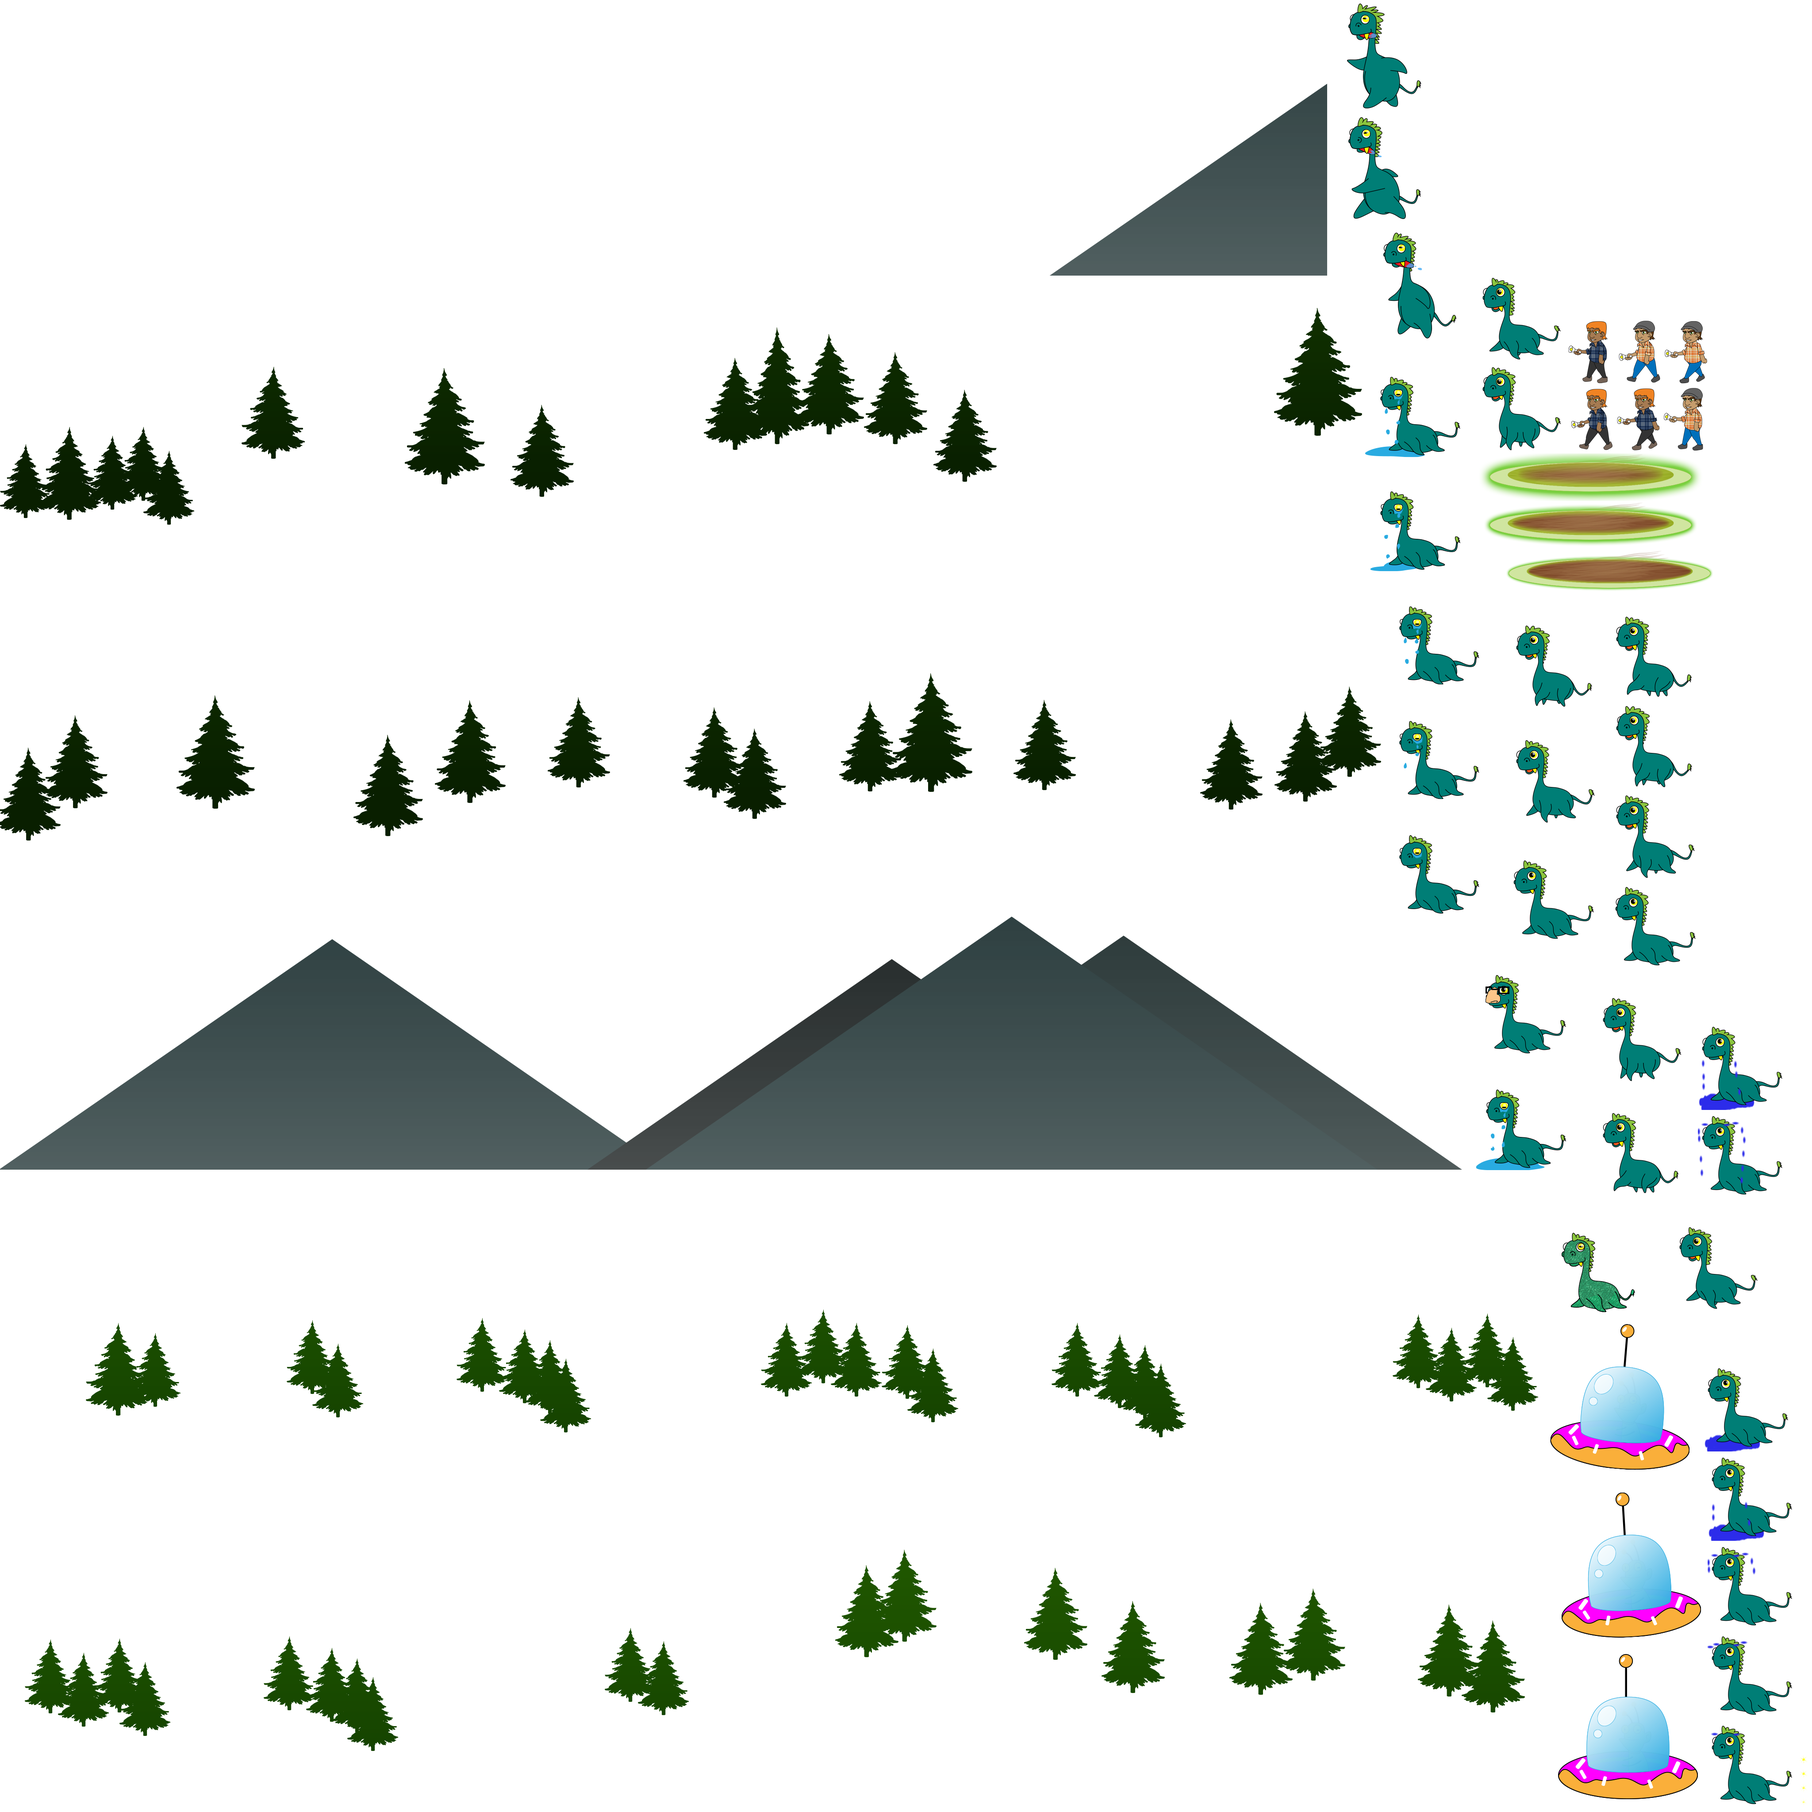
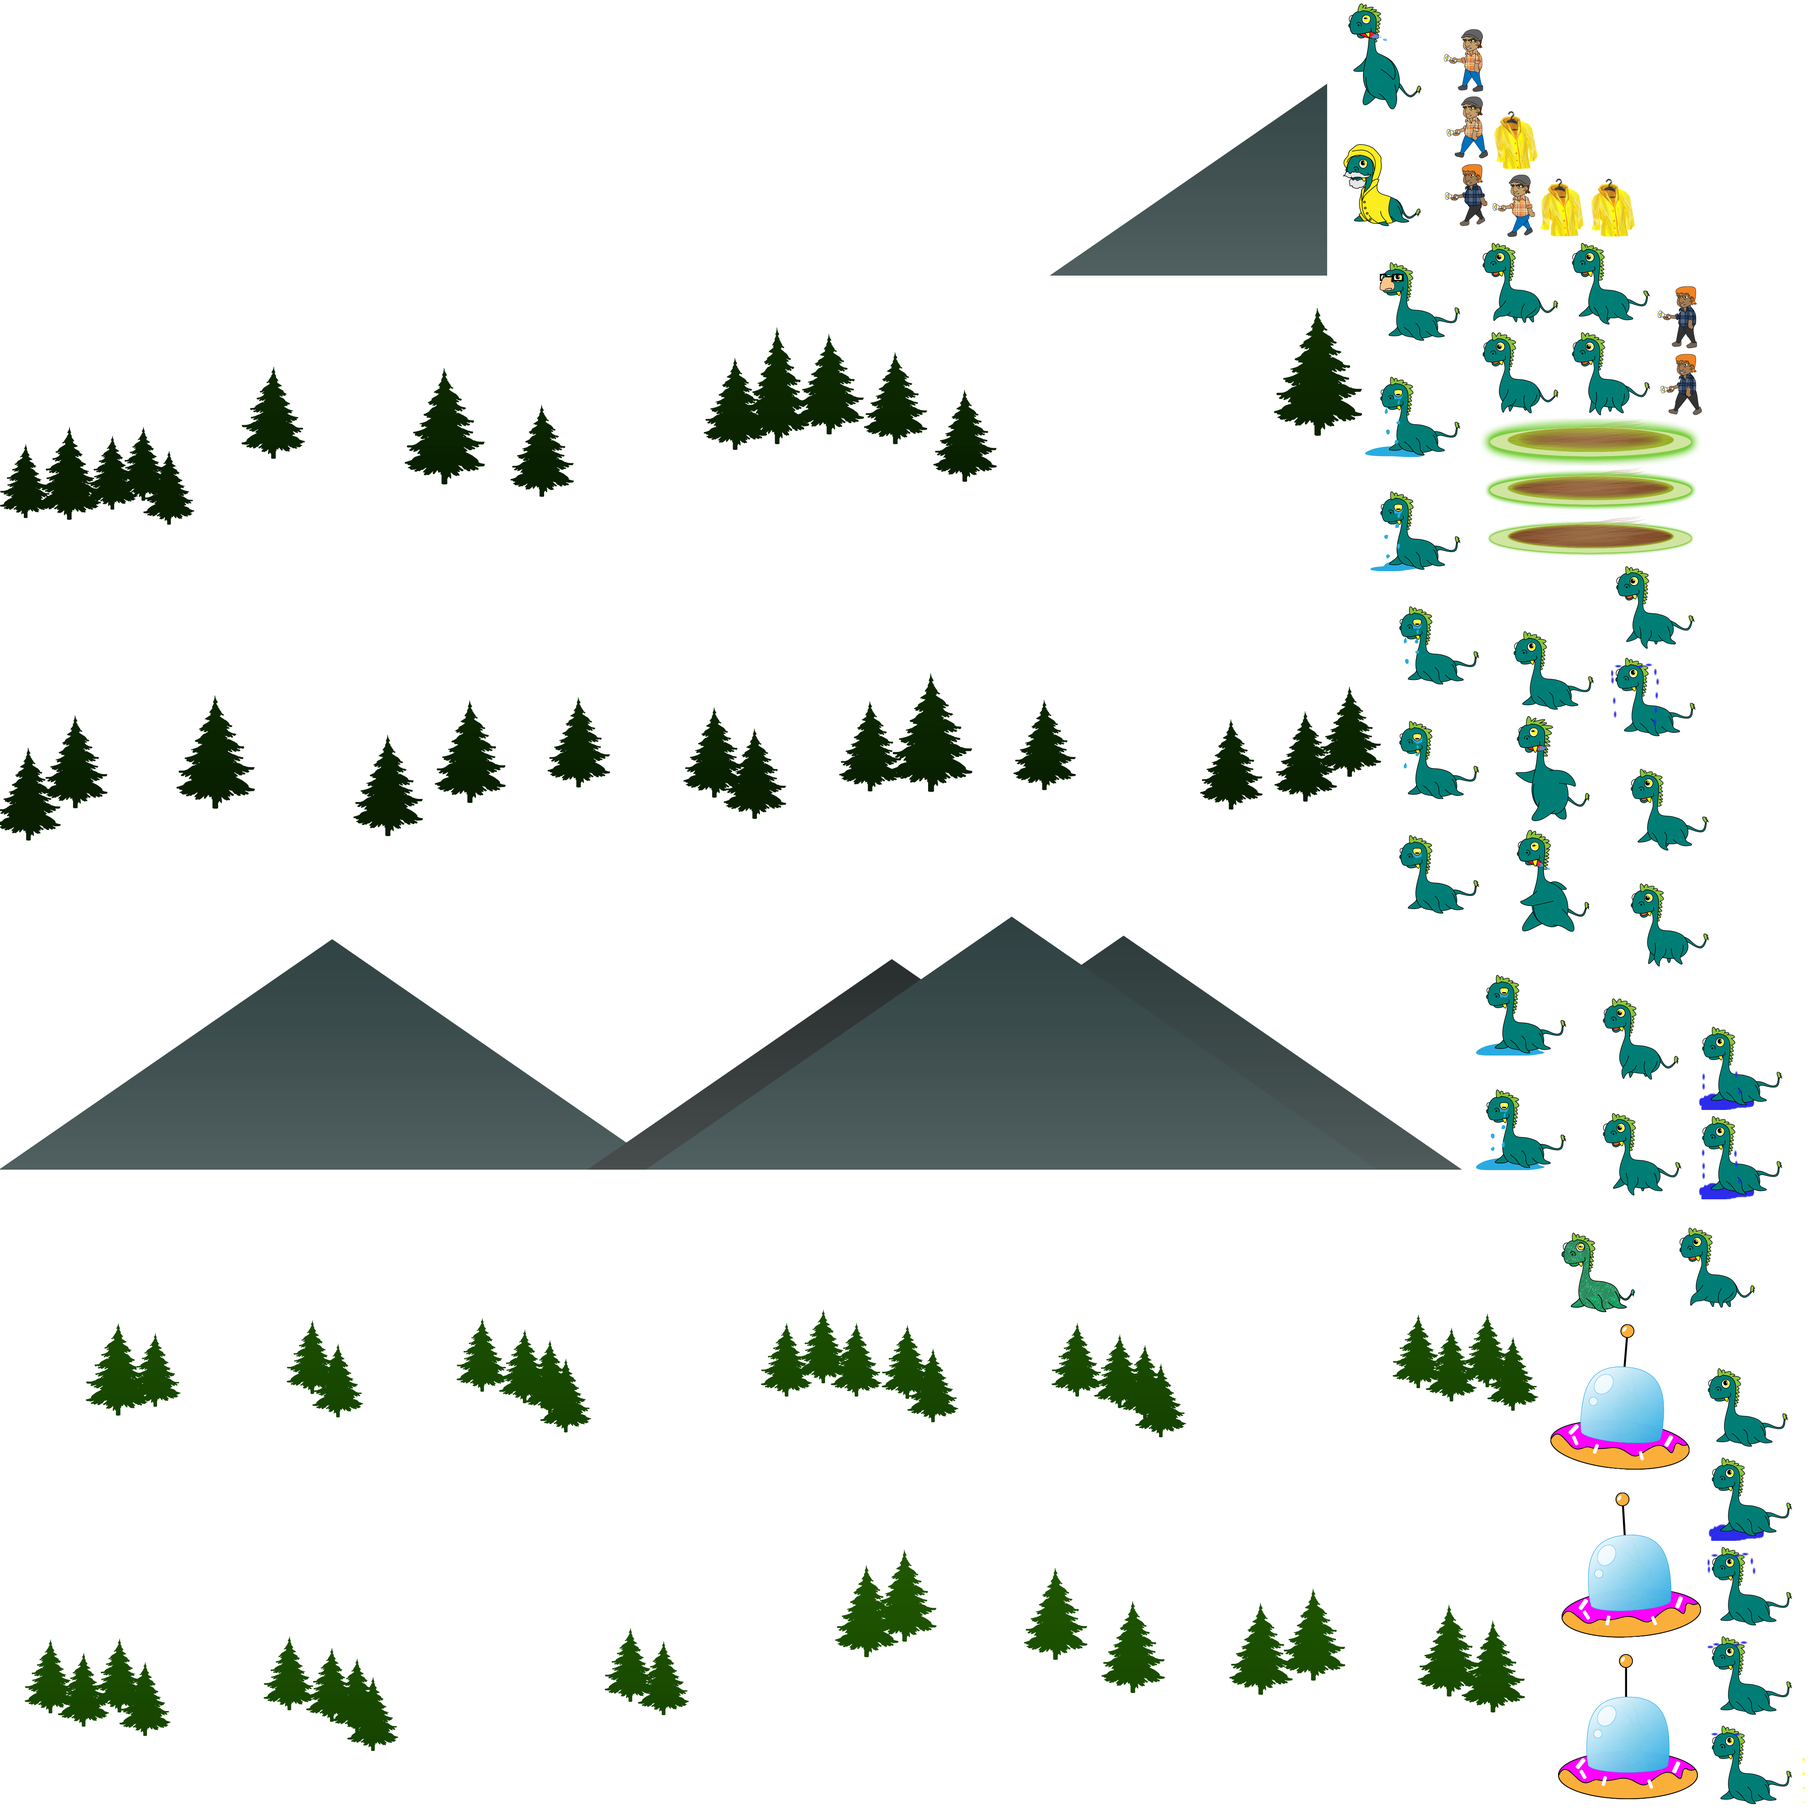
Fixed origin screwup. Added lamppost.
Fixed the origin problem we created for ourselves. Added new art assets
from loi, and started work on picking up the new fisherman disguise.

diff --git a/core/src/com/pineapplepiranha/games/scene2d/stage/StealthNessieStage.java b/core/src/com/pineapplepiranha/games/scene2d/stage/StealthNessieStage.java
@@ -26,6 +26,7 @@ import com.pineapplepiranha.games.delegate.IGameProcessor;
 import com.pineapplepiranha.games.scene2d.GenericActor;
 import com.pineapplepiranha.games.scene2d.GenericGroup;
 import com.pineapplepiranha.games.scene2d.actor.*;
+import com.pineapplepiranha.games.scene2d.decorator.OscillatingDectorator;
 import com.pineapplepiranha.games.util.AssetsUtil;
 import com.pineapplepiranha.games.util.ViewportUtil;
 
@@ -80,7 +81,7 @@ public class StealthNessieStage extends BaseStage {
     private boolean isShowingInstructions = true;
 
     static {
-        playerPos = new Vector2(250f, 170f);
+        playerPos = new Vector2(800f, 120f);//playerPos = new Vector2(250f, 170f);
         distantParalaxPos = new Vector2(700f, -50f);
         farParallaxPos = new Vector2(600f, 0f);
         nearParallaxPos = new Vector2(475f, 0f);
@@ -122,6 +123,7 @@ public class StealthNessieStage extends BaseStage {
     public LevelBackground farParallax;
     public LevelBackground nearParallax;
     public GenericGroup instructions;
+    public GenericGroup lampPost;
 
     public StealthNessieStage(IGameProcessor gameProcessor){
         super(gameProcessor);
@@ -142,7 +144,7 @@ public class StealthNessieStage extends BaseStage {
         bgMusic.setVolume(0.5f);
 
         bgMusic.setLooping(true);
-        bgMusic.play();
+        //bgMusic.play();
 
         clouds = new LevelBackground(0f, 0f, LEVEL_WIDTH, LEVEL_HEIGHT, atlas.findRegions("clouds/Clouds"));
         addActor(clouds);
@@ -180,6 +182,21 @@ public class StealthNessieStage extends BaseStage {
         addActor(landingPad);
         landingPad.setZIndex(depthInitialIndex++);
 
+        TextureRegion lampPostRegion = new TextureRegion(am.get(AssetsUtil.LAMP_POST, AssetsUtil.TEXTURE));
+        lampPost = new GenericGroup(448f, 72f, lampPostRegion.getRegionWidth(), lampPostRegion.getRegionHeight(), lampPostRegion, Color.GREEN);
+        TextureRegion lanternRegion = new TextureRegion(am.get(AssetsUtil.LANTERN, AssetsUtil.TEXTURE));
+        GenericActor lantern = new GenericActor(356f, 210f, lanternRegion.getRegionWidth(), lanternRegion.getRegionHeight(), lanternRegion, Color.CYAN);
+        lantern.addDecorator(new OscillatingDectorator(-5f, 5f, 5f));
+        lantern.setOrigin(lantern.getWidth()/2, lantern.getHeight());
+        lampPost.addActor(lantern);
+
+        Animation coat = new Animation(1f/2f, atlas.findRegions("disguises/raincoat"));
+        AnimatedActor raincoat = new AnimatedActor(200f, 190f, 111f, 138f, coat, 0f);
+        //raincoat.addDecorator(new OscillatingDectorator(-10f, 10f, 2f));
+        lampPost.addActor(raincoat);
+
+
+        addActor(lampPost);
 
         Animation walking = new Animation(WALKING_CYCLE_RATE, atlas.findRegions("nessie/Walking"));
         Animation sadNessie = new Animation(1f/7f, atlas.findRegions("nessie/Cry"));
@@ -189,7 +206,7 @@ public class StealthNessieStage extends BaseStage {
         TextureRegion normalTr = atlas.findRegion("nessie/Stills");
         normalTr.flip(true, false);
 
-        TextureRegion disguisedTr = atlas.findRegion("nessie/Disguised");
+        TextureRegion disguisedTr = atlas.findRegion("nessie/Fisherman_Disguise");//Disguised");
         disguisedTr.flip(true, false);
 
         player = new Player(playerPos.x, playerPos.y, 200f, 200f, walking);
@@ -280,6 +297,16 @@ public class StealthNessieStage extends BaseStage {
         treePositions.add(new Vector2(3144, 720-717));
         treePositions.add(new Vector2(3450, 720-540));
 
+        Array<Vector2> barrellPositions = new Array<Vector2>();
+        barrellPositions.add(new Vector2(2154, 720-594));
+        barrellPositions.add(new Vector2(2730, 720-666));
+        barrellPositions.add(new Vector2(2805, 720-552));
+        barrellPositions.add(new Vector2(2940, 720-651));
+        barrellPositions.add(new Vector2(3039, 720-516));
+        barrellPositions.add(new Vector2(3144, 720-717));
+        barrellPositions.add(new Vector2(3450, 720-540));
+
+
         TextureRegion bushRegion = new TextureRegion(am.get(AssetsUtil.BUSH, AssetsUtil.TEXTURE));
         float width = 129f;
         float height = 121f;
@@ -303,6 +330,15 @@ public class StealthNessieStage extends BaseStage {
         height = 254f;
         for(Vector2 tv:treePositions){
             Cover c = new Cover(tv.x, tv.y, width, height, tRegion, 0);
+            availableCover.add(c);
+            addActor(c);
+        }
+
+        TextureRegion bRegion = new TextureRegion(am.get(AssetsUtil.BARREL, AssetsUtil.TEXTURE));
+        width = 85f;
+        height = 110f;
+        for(Vector2 bv:barrellPositions){
+            Cover c = new Cover(bv.x, bv.y, width, height, bRegion, 0);
             availableCover.add(c);
             addActor(c);
         }
@@ -418,6 +454,8 @@ public class StealthNessieStage extends BaseStage {
                     if(instructions.isVisible()){
                         instructions.setVisible(false);
                         isShowingInstructions = false;
+                        bgMusic.play();
+
                     }else if(isComplete && !player.isVisible()){
                         resetLevel();
                     }else if(!player.isHiding && !player.isDisguised && !player.isFound() && disguisePowerUps.hasDisguise()){
@@ -470,7 +508,7 @@ public class StealthNessieStage extends BaseStage {
 
 
         super.act(delta);
-
+        instructions.setX(getCamera().position.x - (getCamera().viewportWidth/2));
         processHidingStatus();
 
         //Pickup Disguise!
@@ -511,10 +549,10 @@ public class StealthNessieStage extends BaseStage {
                 for(Patrol p: patrols){
                     p.velocity.x = 1000f;
                     float targetX = p.getX();
-                    if(p.getX() >= player.getOriginX() + player.getWidth()){
-                        targetX = player.getOriginX() + (player.getWidth()/2 + rand.nextInt((int)p.getWidth()*2));
-                    }else if(p.getX() < player.getOriginX()- player.getWidth()){
-                        targetX = player.getOriginX() - (player.getWidth()/2 +rand.nextInt((int)p.getWidth()*2));
+                    if(p.getX() >= player.getCenterX() + player.getWidth()){
+                        targetX = player.getCenterX() + (player.getWidth()/2 + rand.nextInt((int)p.getWidth()*2));
+                    }else if(p.getX() < player.getCenterX()- player.getWidth()){
+                        targetX = player.getCenterX() - (player.getWidth()/2 +rand.nextInt((int)p.getWidth()*2));
                     }
 
                     p.sendToNessie(targetX);
@@ -638,6 +676,8 @@ public class StealthNessieStage extends BaseStage {
             spaceship.setZIndex(initialZ--);
         }
         grass.setZIndex(initialZ--);
+        waves.setZIndex(initialZ--);
+        lampPost.setZIndex(initialZ--);
         for(DepthActor d:depths){
             d.setZIndex(initialZ--);
         }
@@ -649,7 +689,6 @@ public class StealthNessieStage extends BaseStage {
         farParallax.setZIndex(index++);
         nearParallax.setZIndex(index++);
         background.setZIndex(index++);
-        waves.setZIndex(index++);
         landingPad.setZIndex(index);
     }
 
@@ -712,8 +751,10 @@ public class StealthNessieStage extends BaseStage {
 
         moon.setPosition(initialMoonPos.x, initialMoonPos.y);
         adjustCamera();
+        instructions.setVisible(true);
+        isShowingInstructions = true;
 
-        bgMusic.play();
+//        bgMusic.play();
 
     }
 
@@ -804,7 +845,6 @@ public class StealthNessieStage extends BaseStage {
         light = gameProcessor.getAssetManager().get(AssetsUtil.LIGHT, AssetsUtil.TEXTURE);
         lightRegion = new TextureRegion(light);
         alienLight = gameProcessor.getAssetManager().get(AssetsUtil.ALIEN_LIGHT, AssetsUtil.TEXTURE);
-        //bg = gameProcessor.getAssetManager().get(AssetsUtil.GAME_BG, AssetsUtil.TEXTURE);
     }
 
     public void resize(int width, int height) {
@@ -824,8 +864,9 @@ public class StealthNessieStage extends BaseStage {
             batch.setShader(defaultShader);
             Gdx.gl.glClear(GL20.GL_COLOR_BUFFER_BIT);
             batch.begin();
-            batch.draw(light, moon.getOriginX() - lightSize*0.5f + 0.5f,
-                    moon.getOriginY() + 0.5f - lightSize*0.5f,
+
+            batch.draw(light, moon.getCenterX() - lightSize*0.5f + 0.5f,
+                    moon.getCenterY() + 0.5f - lightSize*0.5f,
                     lightSize, lightSize);
             for(Patrol p: patrols){
                 float originX = p.visionBox.width/2;

diff --git a/core/src/com/pineapplepiranha/games/scene2d/GenericActor.java b/core/src/com/pineapplepiranha/games/scene2d/GenericActor.java
@@ -5,7 +5,9 @@ import com.badlogic.gdx.graphics.g2d.Batch;
 import com.badlogic.gdx.graphics.g2d.TextureRegion;
 import com.badlogic.gdx.math.Rectangle;
 import com.badlogic.gdx.math.Vector2;
+import com.badlogic.gdx.utils.Array;
 import com.kasetagen.engine.gdx.scenes.scene2d.KasetagenActor;
+import com.pineapplepiranha.games.scene2d.decorator.ActorDecorator;
 
 /**
  * Created with IntelliJ IDEA.
@@ -23,6 +25,8 @@ public class GenericActor extends KasetagenActor {
 
     protected float rotationSpeed = 0f;
 
+    private Array<ActorDecorator> decorations;
+
     public GenericActor(float x, float y, float width, float height, TextureRegion textureRegion, Color color){
         super();
         setPosition(x, y);
@@ -33,6 +37,7 @@ public class GenericActor extends KasetagenActor {
         setColor(color);
         this.textureRegion = textureRegion;
         collider = new Rectangle(x, y, width, height);
+        decorations = new Array<ActorDecorator>();
     }
 
     public GenericActor(float x, float y, float width, float height, Color color){
@@ -44,6 +49,7 @@ public class GenericActor extends KasetagenActor {
         setOrigin(x + width/2, y + height/2);
         setColor(color);
         collider = new Rectangle(x, y, width, height);
+        decorations = new Array<ActorDecorator>();
     }
 
     protected void adjustCollidingBox(float delta){
@@ -70,7 +76,12 @@ public class GenericActor extends KasetagenActor {
 
 
     public void adjustOrigin(float delta){
-        setOrigin(getX()+(getWidth()/2), getY()+(getHeight()/2));
+        Vector2 parentAdjustment = new Vector2(0f, 0f);
+        if(getParent() != null){
+            parentAdjustment.set(getParent().getX(), getParent().getY());
+        }
+        setOrigin(parentAdjustment.x + getX()+(getWidth()/2),
+                  parentAdjustment.y + getY()+(getHeight()/2));
     }
 
     @Override
@@ -79,7 +90,12 @@ public class GenericActor extends KasetagenActor {
         adjustCollidingBox(delta);
         adjustRotation(delta);
         adjustPosition(delta);
-        adjustOrigin(delta);
+        //TODO: Find out why we were doing this in the first place
+        //adjustOrigin(delta);
+
+        for(ActorDecorator d:decorations){
+            d.applyAdjustment(this, delta);
+        }
     }
 
     @Override
@@ -88,5 +104,13 @@ public class GenericActor extends KasetagenActor {
             batch.draw(textureRegion, getX(), getY(), getOriginX(), getOriginY(),
                     getWidth(), getHeight(), getScaleX(), getScaleY(), getRotation());
         }
+    }
+
+    public void addDecorator(ActorDecorator d){
+        this.decorations.add(d);
+    }
+
+    public void removeDecorator(ActorDecorator d){
+        this.decorations.removeValue(d, true);
     }
 }

diff --git a/core/src/com/pineapplepiranha/games/scene2d/decorator/OscillatingDectorator.java b/core/src/com/pineapplepiranha/games/scene2d/decorator/OscillatingDectorator.java
@@ -1,0 +1,40 @@
+package com.pineapplepiranha.games.scene2d.decorator;
+
+import com.badlogic.gdx.math.Vector2;
+import com.badlogic.gdx.scenes.scene2d.Actor;
+
+/**
+ * Created with IntelliJ IDEA.
+ * User: barry
+ * Date: 9/14/14
+ * Time: 3:28 PM
+ * To change this template use File | Settings | File Templates.
+ */
+public class OscillatingDectorator implements ActorDecorator {
+
+
+
+
+    private float minRotation = -5f;
+    private float maxRotation = 5f;
+    private float rotationSpeed = 1f;
+
+
+    public OscillatingDectorator(float minRotation, float maxRotation, float rotationSpeed){
+        this.minRotation = minRotation;
+        this.maxRotation = maxRotation;
+        this.rotationSpeed = rotationSpeed;
+
+    }
+    @Override
+    public void applyAdjustment(Actor a, float delta) {
+
+        if(a.getRotation() >= maxRotation || a.getRotation() <= minRotation){
+            rotationSpeed *= -1;
+        }
+
+        a.setOrigin(a.getWidth()/2, a.getHeight());
+        float adjustment = rotationSpeed * delta;
+        a.setRotation(a.getRotation()+adjustment);
+    }
+}

diff --git a/core/src/com/pineapplepiranha/games/SneakyNessieGame.java b/core/src/com/pineapplepiranha/games/SneakyNessieGame.java
@@ -70,6 +70,10 @@ public class SneakyNessieGame extends Game implements IGameProcessor {
         assetManager.load(AssetsUtil.INSTRUCTIONS, AssetsUtil.TEXTURE);
         assetManager.load(AssetsUtil.ALIEN_LIGHT, AssetsUtil.TEXTURE);
         assetManager.load(AssetsUtil.SPEECH_BUBBLE, AssetsUtil.TEXTURE);
+        assetManager.load(AssetsUtil.BARREL, AssetsUtil.TEXTURE);
+        assetManager.load(AssetsUtil.LAMP_POST, AssetsUtil.TEXTURE);
+        assetManager.load(AssetsUtil.LANTERN, AssetsUtil.TEXTURE);
+
 
         assetManager.load(AssetsUtil.ALIEN_UP, AssetsUtil.SOUND);
         assetManager.load(AssetsUtil.WHISTLE, AssetsUtil.SOUND);

diff --git a/core/src/com/pineapplepiranha/games/util/AssetsUtil.java b/core/src/com/pineapplepiranha/games/util/AssetsUtil.java
@@ -40,6 +40,9 @@ public class AssetsUtil {
     public static final String INSTRUCTIONS = "images/Instruction_Screen.jpg";
     public static final String ALIEN_LIGHT = "images/alien-light.png";
     public static final String SPEECH_BUBBLE = "images/WHN_Speech.png";
+    public static final String BARREL = "images/Barrel.png";
+    public static final String LAMP_POST = "images/Lamp_Post.png";
+    public static final String LANTERN = "images/Lantern.png";
 
 
     //Font Paths

diff --git a/core/src/com/pineapplepiranha/games/scene2d/decorator/ActorDecorator.java b/core/src/com/pineapplepiranha/games/scene2d/decorator/ActorDecorator.java
@@ -1,0 +1,15 @@
+package com.pineapplepiranha.games.scene2d.decorator;
+
+import com.badlogic.gdx.scenes.scene2d.Actor;
+
+/**
+ * Created with IntelliJ IDEA.
+ * User: barry
+ * Date: 9/14/14
+ * Time: 3:17 PM
+ * To change this template use File | Settings | File Templates.
+ */
+public interface  ActorDecorator {
+
+    public void applyAdjustment(Actor a, float delta);
+}
